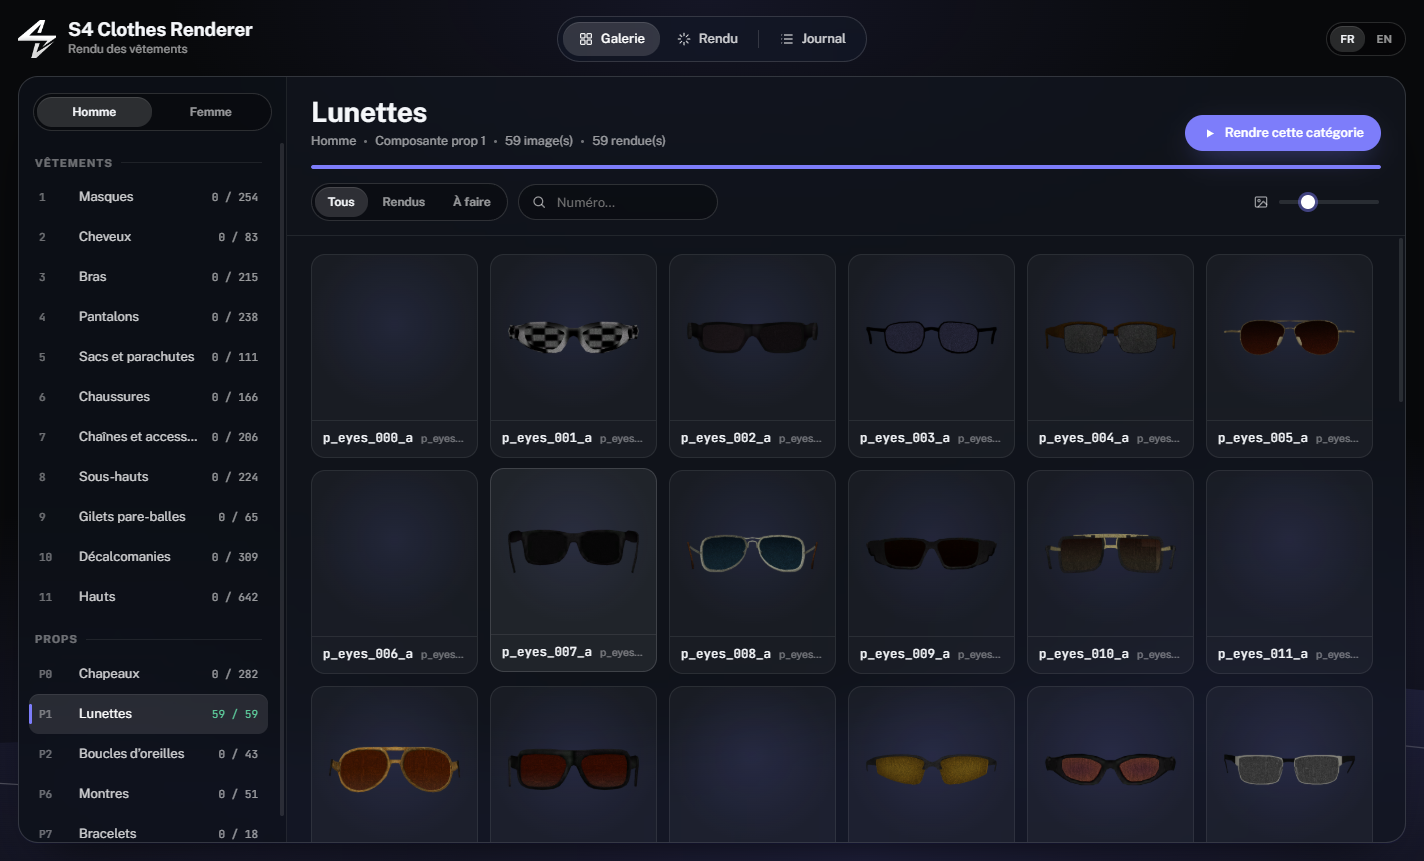
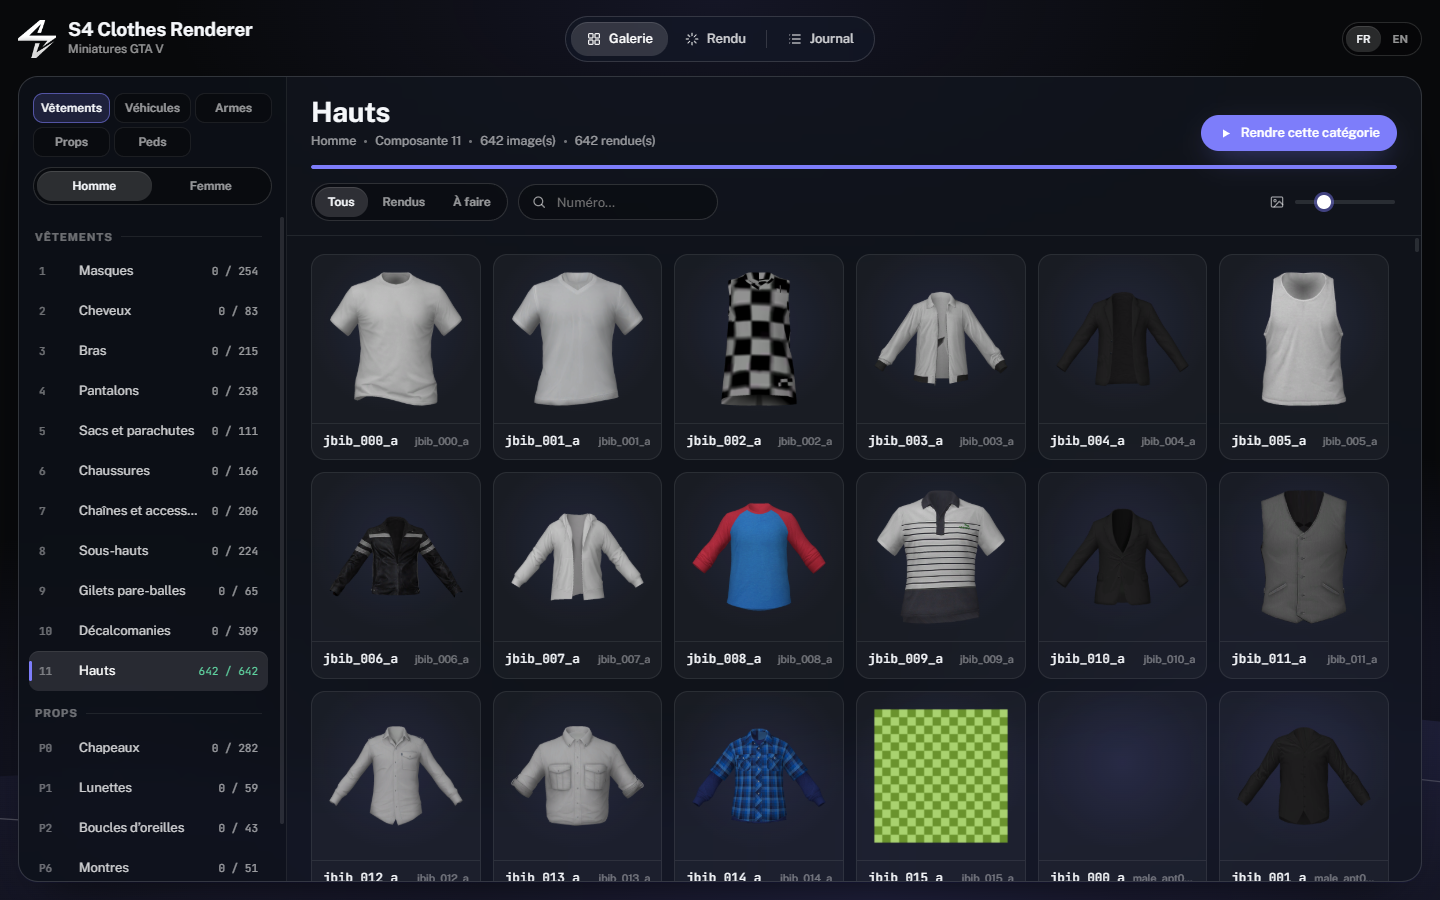
Add screenshots and sample thumbnails to the README

diff --git a/README.md b/README.md
@@ -16,6 +16,38 @@ Génère des miniatures PNG transparentes des vêtements (freemode homme et femm
 - Galerie par catégorie, rendu en direct, reprise là où tu t'étais arrêté.
 - Rendu logiciel multi-cœur : plus de 100 images par seconde sur un CPU récent.
 
+## Captures
+
+| Véhicules | Armes |
+|---|---|
+| ![Véhicules](docs/vehicles.png) | ![Armes](docs/weapons.png) |
+| **Props** | **Peds** |
+| ![Props](docs/props.png) | ![Peds](docs/peds.png) |
+
+Rendu en direct : chaque image s'affiche dès qu'elle est écrite.
+
+![Rendu](docs/render.png)
+
+## Images produites
+
+Un PNG transparent par élément, une image par fichier :
+
+| `male/11/6.png` | `male/11/8.png` | `vehicles/adder.png` | `vehicles/champion.png` | `weapons/WEAPON_DOUBLEACTION.png` |
+|:-:|:-:|:-:|:-:|:-:|
+| <img src="docs/samples/jbib_006_a.png" width="140"> | <img src="docs/samples/jbib_008_a.png" width="140"> | <img src="docs/samples/adder.png" width="140"> | <img src="docs/samples/champion.png" width="140"> | <img src="docs/samples/WEAPON_DOUBLEACTION.png" width="140"> |
+| **`weapons/WEAPON_FLAREGUN.png`** | **`props/p_beefsplitter_s.png`** | **`props/p_bison_winch_s.png`** | **`peds/a_m_y_beach_01.png`** | **`peds/a_f_m_bevhills_01.png`** |
+| <img src="docs/samples/WEAPON_FLAREGUN.png" width="140"> | <img src="docs/samples/p_beefsplitter_s.png" width="140"> | <img src="docs/samples/p_bison_winch_s.png" width="140"> | <img src="docs/samples/a_m_y_beach_01.png" width="140"> | <img src="docs/samples/a_f_m_bevhills_01.png" width="140"> |
+
+```
+sortie/
+  male/11/42.png        vêtements (numéros du jeu)
+  female/4/17_2.png     variante de texture 2
+  vehicles/adder.png
+  weapons/WEAPON_PISTOL.png
+  props/prop_bin_01a.png
+  peds/a_m_y_beach_01.png
+```
+
 ## Installation
 
 1. Télécharge `S4ClothesRenderer.zip` dans les [Releases](../../releases) et décompresse-le.
@@ -62,6 +94,8 @@ Generates transparent PNG thumbnails of GTA V clothing (male and female freemode
 - First colour only or every texture variant (`42_0.png`, `42_1.png`…).
 - Per-category gallery, live progress, resumes where you left off.
 - Multi-core software renderer: over 100 images per second on a recent CPU.
+
+Screenshots and sample output: see [Captures](#captures) and [Images produites](#images-produites) above. One transparent PNG per item: `male/11/42.png`, `vehicles/adder.png`, `weapons/WEAPON_PISTOL.png`, `props/prop_bin_01a.png`, `peds/a_m_y_beach_01.png`.
 
 ### Install
 
